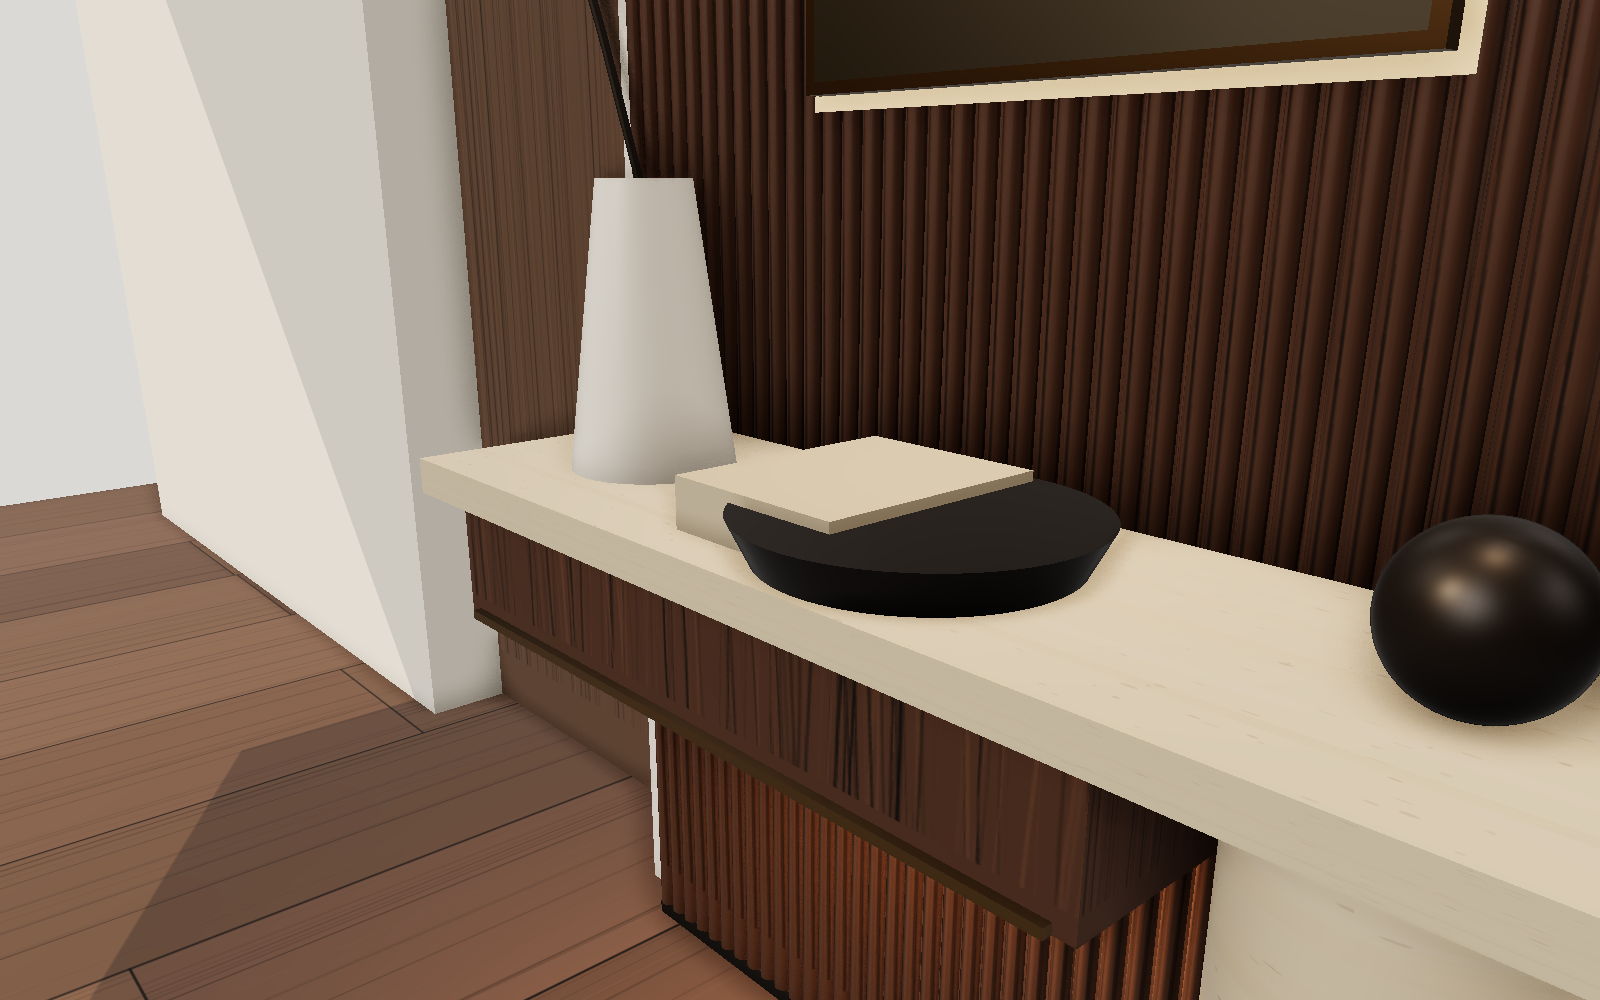
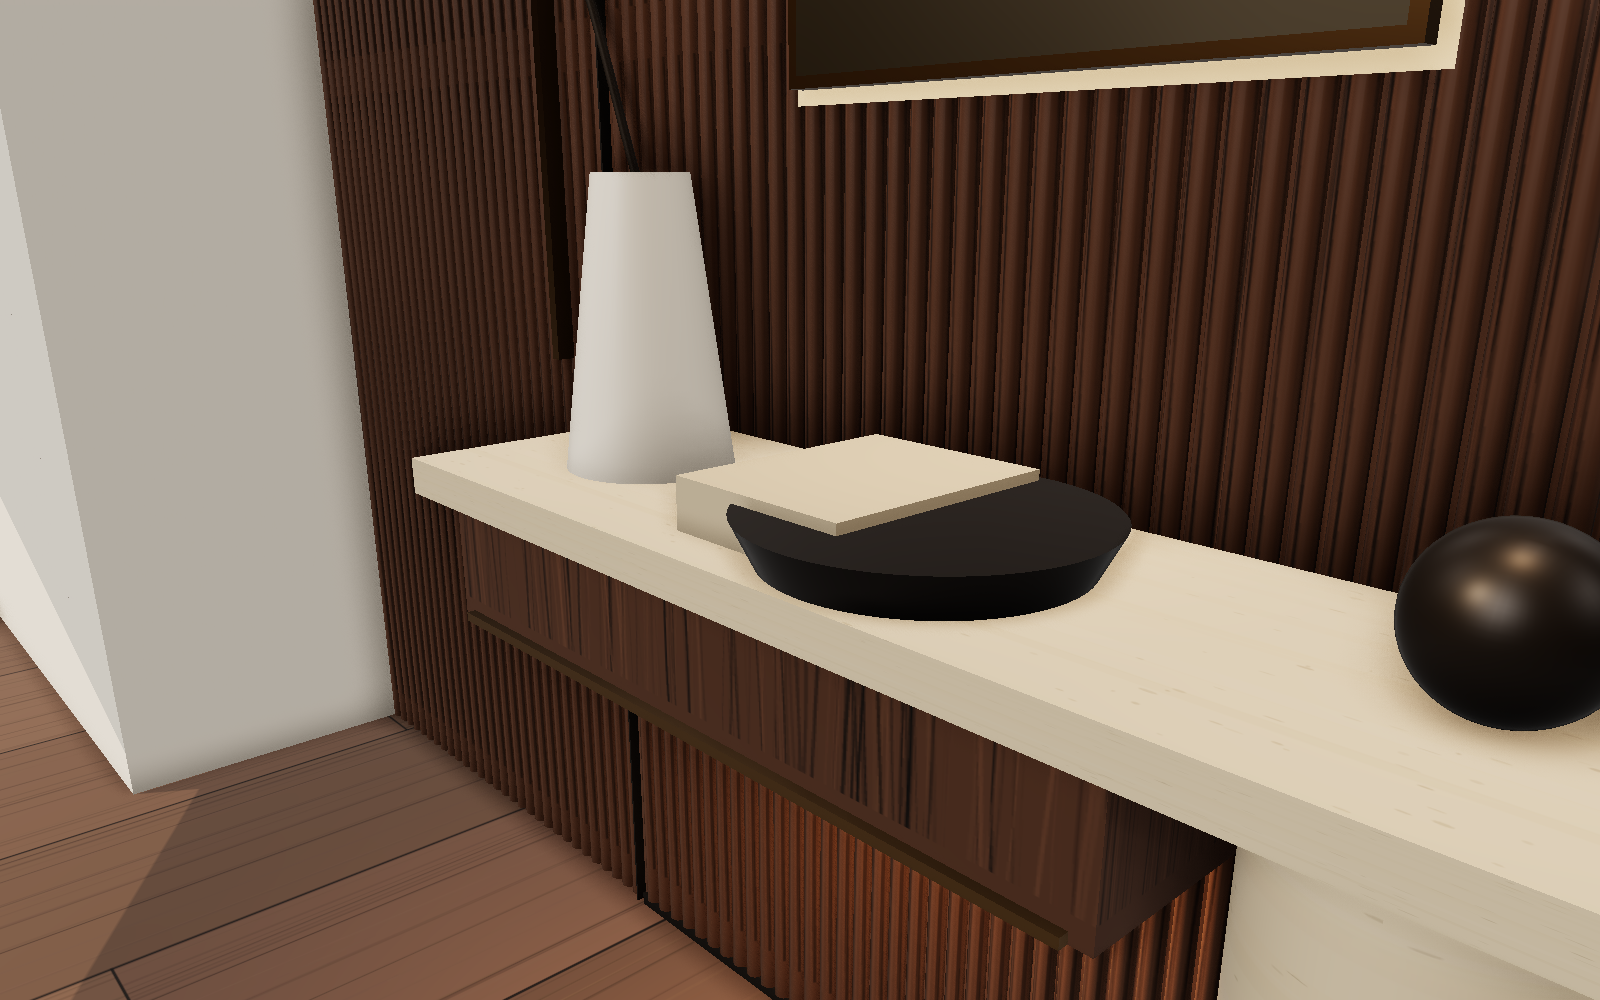
Console LIGNE: match the Revit recess (fluted hidden door, soffit, side returns)
Claude-Session: https://claude.ai/code/session_01TMkpVbaZcgHqbA4xJD5DyV

diff --git a/projects/villa-rdc/tools/console.js b/projects/villa-rdc/tools/console.js
@@ -64,29 +64,36 @@ function cyl(x, d, r, z0, z1, m, rTop = r, seg = 64) {
   c.castShadow = c.receiveShadow = true; scene.add(c); return c;
 }
 
-// ---------- architecture ----------
+// ---------- architecture (d'après la vue Revit : niche entre deux retours, porte à gauche, retombée en haut) ----------
+const DOOR = +(q.get('door') || 0.90), SOF = 2.45;          // largeur porte, sous-face de la retombée
 const floor = new THREE.Mesh(new THREE.PlaneGeometry(8, 6), new THREE.MeshStandardMaterial({ map: T.oak, roughness: 0.55 }));
 floor.rotation.x = -Math.PI / 2; floor.position.set(0.5, 0, 2); floor.receiveShadow = true; scene.add(floor);
-box(-3, 4, CH, CH + 0.1, -0.3, 5, new THREE.MeshStandardMaterial({ color: '#f4f1ec', roughness: 0.9 }));      // ceiling
-// back wall (behind cladding) and side return wall at the corner
-box(WALL, WALL + 0.2, 0, CH, -0.2, 3.5, M.plaster);
-// door opening on the left (x −1.0 … −0.08), oak door leaf + architrave flush in shadow gap
-box(-0.9, -0.08, 2.2, CH, -0.2, 0, M.plaster);
-box(-0.9, -0.08, 0, 2.2, -0.2, -0.16, M.smoked);                         // closed flush door leaf
-box(-0.25, -0.23, 0.95, 1.35, -0.16, -0.12, M.bronze);                   // bronze pull
-box(-0.08, 0, 0, CH, -0.2, 0, M.plaster);                                 // door jamb return
-box(-3, -0.9, 0, CH, -0.2, 0, M.plaster);
-
+box(-4, 4, CH, CH + 0.1, -0.3, 5, new THREE.MeshStandardMaterial({ color: '#f4f1ec', roughness: 0.9 }));      // plafond
+const XL = -DOOR - 0.02;                                                       // face du retour gauche
+box(XL - 0.25, XL, 0, CH, -0.2, 0.55, M.plaster);                               // retour gauche
+box(WALL, WALL + 0.25, 0, CH, -0.2, 0.55, M.plaster);                           // retour droit
+box(-4, XL - 0.25, 0, CH, 0.35, 0.55, M.plaster); box(WALL + 0.25, 4, 0, CH, 0.35, 0.55, M.plaster);
+box(XL, WALL, SOF, CH, -0.2, 0.55, M.plaster);                                   // retombée
+box(XL, WALL, SOF - 0.004, SOF, 0.02, 0.03, M.gap, false);
+{ const strip = new THREE.Mesh(new THREE.BoxGeometry(WALL - XL - 0.1, 0.004, 0.012), M.glow); strip.position.set((XL + WALL) / 2, SOF - 0.006, 0.09); scene.add(strip); }
+// porte dérobée : même cannelure que le mur, joint 3 mm, tirage laiton vertical
+box(-DOOR, -0.003, 0.01, SOF - 0.003, -0.2, CLAD - 0.015, M.walnut(1.3, 2));
+for (let x = -DOOR + 0.004; x < -0.02; x += 0.03) {
+  const f = new THREE.Mesh(new THREE.CylinderGeometry(0.0125, 0.0125, SOF - 0.03, 12, 1, false, -Math.PI / 2, Math.PI), M.walnut(0.05, 2));
+  f.position.set(x + 0.013, SOF / 2, CLAD - 0.015); f.receiveShadow = true; scene.add(f);
+}
+box(-0.003, 0, 0.01, SOF, -0.2, CLAD, M.gap, false);
+box(-0.11, -0.095, 0.85, 1.45, CLAD, CLAD + 0.025, M.bronze);
 // ---------- 1. Habillage mural : cannelures noyer, joint creux 10 mm ----------
-box(0.01, WALL - 0.01, 0, 0.02, 0, CLAD - 0.01, M.gap);                  // plinthe en retrait
-box(0.01, WALL - 0.01, 0.02, CH - 0.01, 0, CLAD - 0.015, M.walnut(2, 2));
+box(0.0, WALL, 0, 0.02, 0, CLAD - 0.01, M.gap);                  // plinthe en retrait
+box(0.0, WALL, 0.02, SOF, 0, CLAD - 0.015, M.walnut(2, 2));
 const FL = 0.03;                                                           // cannelure 30 mm
 for (let x = 0.01 + 0.004; x < WALL - 0.02; x += FL) {
-  const f = new THREE.Mesh(new THREE.CylinderGeometry(0.0125, 0.0125, CH - 0.04, 12, 1, false, -Math.PI / 2, Math.PI), M.walnut(0.05, 2));
-  f.position.set(x + 0.013, CH / 2 + 0.005, CLAD - 0.015); f.castShadow = false; f.receiveShadow = true; scene.add(f);
+  const f = new THREE.Mesh(new THREE.CylinderGeometry(0.0125, 0.0125, SOF - 0.03, 12, 1, false, -Math.PI / 2, Math.PI), M.walnut(0.05, 2));
+  f.position.set(x + 0.013, SOF / 2 + 0.005, CLAD - 0.015); f.castShadow = false; f.receiveShadow = true; scene.add(f);
 }
 // ---------- 2. Miroir arche bronze, rétroéclairé ----------
-const MW = 0.62, MH = 1.05, MX = WALL / 2, MZ0 = 1.18;
+const MW = Math.min(0.62, WALL * 0.5), MH = 1.0, MX = WALL / 2, MZ0 = 1.18;
 {
   const s = new THREE.Shape(); s.moveTo(-MW / 2, 0); s.lineTo(MW / 2, 0); s.lineTo(MW / 2, MH - MW / 2); s.absarc(0, MH - MW / 2, MW / 2, 0, Math.PI, false); s.lineTo(-MW / 2, 0);
   const halo = new THREE.Mesh(new THREE.ShapeGeometry(s.clone(), 64), M.glow); halo.scale.set(1.04, 1.03, 1); halo.position.set(MX, MZ0 - 0.015, CLAD + 0.004); scene.add(halo);
@@ -95,7 +102,7 @@ const MW = 0.62, MH = 1.05, MX = WALL / 2, MZ0 = 1.18;
   
 }
 // ---------- 3. Console : plateau travertin suspendu + pied cylindrique + tiroir noyer ----------
-const CW = Math.min(1.20, WALL - 0.20), CX0 = WALL - 0.10 - CW, CX1 = WALL - 0.10;   // 10 cm de dégagement de chaque côté
+const CW = Math.min(1.20, WALL - 0.15), CX0 = WALL - 0.075 - CW, CX1 = WALL - 0.075;   // 10 cm de dégagement de chaque côté
 const D = 0.35, TOP = 0.80, TH = 0.04;
 box(CX0, CX1, TOP - TH, TOP, CLAD, CLAD + D, M.trav(1.2, 0.4));                         // plateau travertin 40 mm (chant d'onglet)
 box(CX0 + 0.04, CX1 - 0.32, TOP - TH - 0.14, TOP - TH, CLAD, CLAD + D - 0.03, M.walnut(1, 0.3));  // caisson tiroir suspendu
@@ -117,10 +124,10 @@ const s = new THREE.Mesh(new THREE.SphereGeometry(0.06, 48, 32), M.dark); s.posi
 scene.add(new THREE.HemisphereLight('#f4ede2', '#9c8670', 0.6));
 const key = new THREE.DirectionalLight('#ffe6c4', 2.2); key.position.set(-2.5, 3.5, 4); key.castShadow = true;
 key.shadow.mapSize.set(4096, 4096); key.shadow.bias = -0.0004; Object.assign(key.shadow.camera, { left: -3, right: 3, top: 3, bottom: -1, near: 0.5, far: 12 }); scene.add(key);
-for (const x of [0.3, WALL - 0.3]) { const sp = new THREE.SpotLight('#ffd4a0', 4, 4, 0.45, 0.8, 2); sp.position.set(x, CH - 0.05, 0.35); sp.target.position.set(x, 0.8, 0.02); scene.add(sp, sp.target); }
+for (const x of [0.3, WALL - 0.3]) { const sp = new THREE.SpotLight('#ffd4a0', 4, 4, 0.45, 0.8, 2); sp.position.set(x, SOF - 0.02, 0.35); sp.target.position.set(x, 0.8, 0.02); scene.add(sp, sp.target); }
 
-const V = { front: { pos: [0.25, 1.3, 3.1], look: [0.35, 1.2, 0], fov: 52 },
-            angle: { pos: [-1.3, 1.35, 2.3], look: [WALL / 2 + 0.1, 0.95, 0.1], fov: 50 },
+const V = { front: { pos: [(WALL - DOOR) / 2, 1.3, 3.2], look: [(WALL - DOOR) / 2, 1.2, 0], fov: 50 },
+            angle: { pos: [-1.9, 1.35, 2.4], look: [WALL / 2 + 0.1, 0.95, 0.1], fov: 50 },
             detail: { pos: [WALL - 0.05, 1.10, 0.95], look: [CX0 + 0.35, 0.72, 0.15], fov: 50 } }[VIEW];
 const cam = new THREE.PerspectiveCamera(V.fov, W / H, 0.05, 50); cam.position.set(...V.pos); cam.lookAt(...V.look);
 const comp = new EffectComposer(renderer); comp.addPass(new RenderPass(scene, cam));
